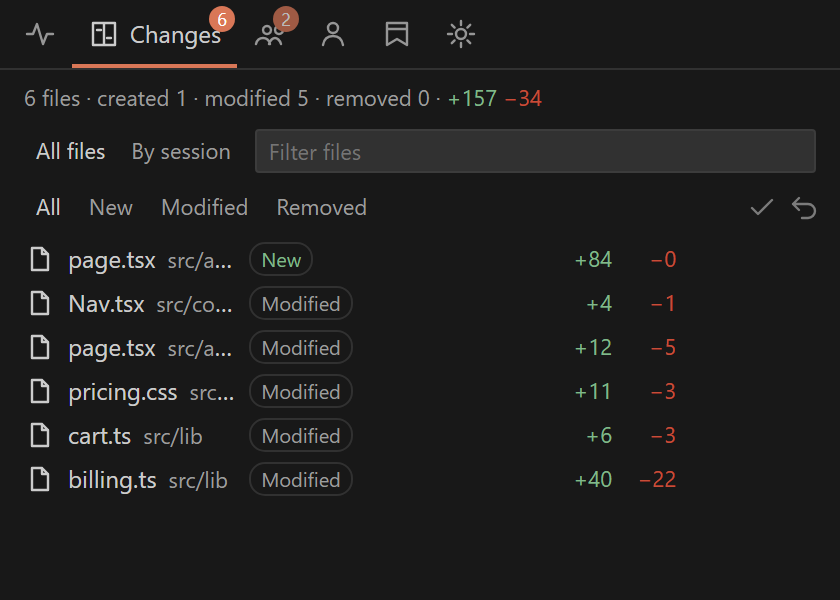
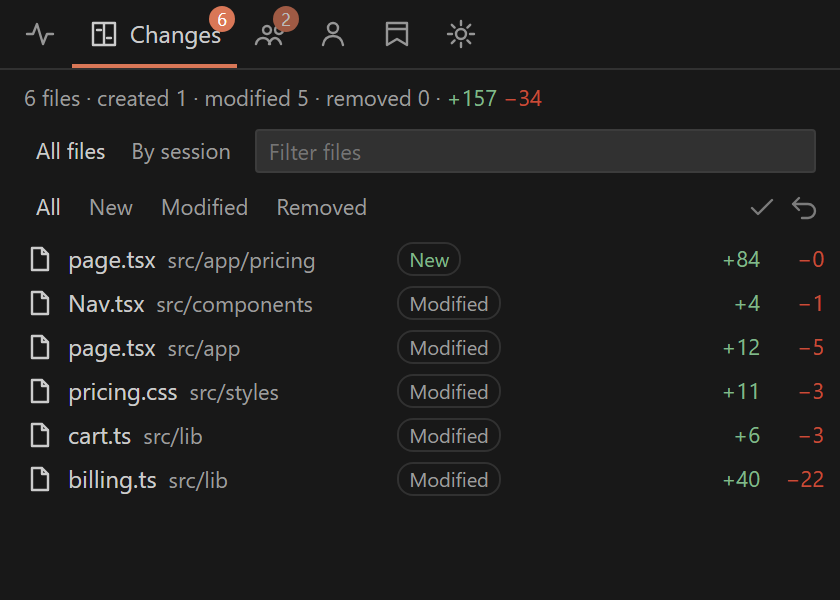
fix(changes): hover actions overlay the row instead of reserving a column

diff --git a/media/dashboard.css b/media/dashboard.css
@@ -254,14 +254,15 @@ button { font: inherit; color: inherit; background: none; border: 0; padding: 0;
 .crow:hover .badges, .crow:focus-within .badges { opacity: 1; }
 
 /* Changes rows: fixed grid columns flush right */
-.crow { display: grid; grid-template-columns: 16px minmax(0, 1fr) 9ch 11ch auto 68px; column-gap: 6px; padding: 0 8px 0 12px; }
+.crow { position: relative; display: grid; grid-template-columns: 16px minmax(0, 1fr) 9ch 11ch auto; column-gap: 6px; padding: 0 8px 0 12px; }
 .crow .chip { justify-self: start; overflow: hidden; white-space: nowrap; }
 .crow .tag.sess { margin: 0; white-space: nowrap; text-align: right; }
 .crow .counts { justify-self: end; }
-.crow .badges { justify-self: end; }
+.crow .badges { position: absolute; right: 8px; top: 50%; transform: translateY(-50%); background: var(--vscode-list-hoverBackground, var(--hover)); border-radius: 3px; box-shadow: -8px 0 8px var(--vscode-list-hoverBackground, var(--hover)); pointer-events: none; }
+.crow:hover .badges, .crow:focus-within .badges { pointer-events: auto; }
 .cchips { padding-right: 8px; }
 @media (max-width: 340px) {
-  .crow { grid-template-columns: 16px minmax(0, 1fr) 10px auto 68px; }
+  .crow { grid-template-columns: 16px minmax(0, 1fr) 10px auto; }
   .crow .tag.sess { display: none; }
   .crow .chip { font-size: 0; padding: 0; width: 8px; height: 8px; line-height: 8px; border-radius: 50%; background: currentColor; border: 0; }
 }
